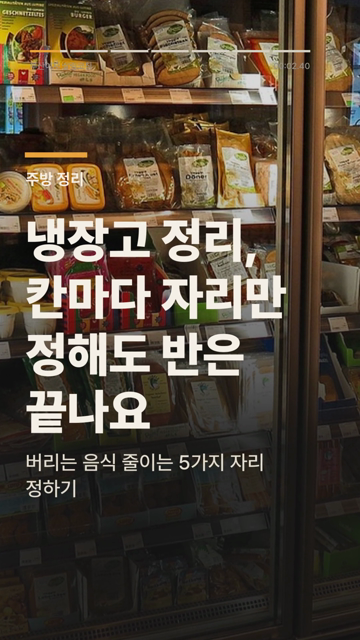
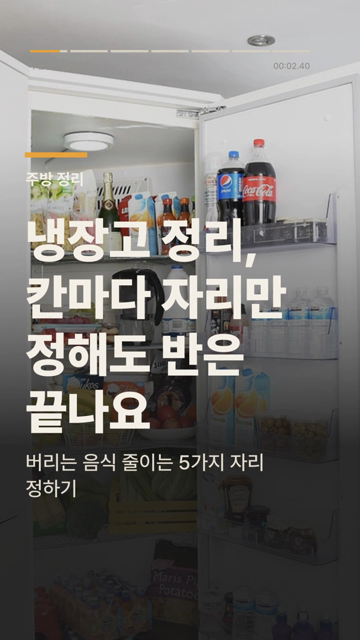
릴스 사진 고르기 방식 변경: 장면별 후보 8장 확인표 → 클로드가 보고 고른 사진으로 영상 (002 후보표 요청)
Claude-Session: https://claude.ai/code/session_01Ej6uK3p4TB7f1c2qyCj6cE

diff --git a/scripts/publish_reel.py b/scripts/publish_reel.py
@@ -95,7 +95,11 @@ def render(stem: str, preview: bool = False) -> Path:
     import reel
     post = json.loads((ROOT / "content" / f"{stem}.json").read_text(encoding="utf-8"))
     n = len(post["slides"]) + 1
-    pics = media.photos(post, stem, n)
+    picks = os.environ.get("REEL_PICKS", "").strip()
+    if picks:
+        pics = media.photos_by_pick(stem, parse_picks(stem, picks, n))
+    else:
+        pics = media.photos(post, stem, n)
     d = load()
     track = media.pick_track(d["music"].get("last"))
     want = os.environ.get("REEL_TRACK", "").strip()  # 미리보기에서 곡 번호를 고를 때
@@ -114,6 +118,59 @@ def render(stem: str, preview: bool = False) -> Path:
         d["approved"].pop(stem, None)  # 다시 만들었으면 다시 승인 받아야 함
         save(d)
     print(f"영상 완성: {out} / 사진 {len(pics)}장 / 음악 {info['music']}")
+    return out
+
+
+def parse_picks(stem: str, text: str, n: int) -> list:
+    """'0=3,1=0,2=-' (장면=확인표 후보 번호, - 는 사진 없이) → 장면별 픽사베이 사진 번호"""
+    cands = json.loads((ROOT / "review" / f"{stem}_cands.json").read_text(encoding="utf-8"))
+    picks = [None] * n
+    for part in text.replace(" ", "").split(","):
+        if "=" not in part:
+            continue
+        sc, k = part.split("=")
+        sc = int(sc)
+        if k not in ("-", "") and sc < n:
+            picks[sc] = cands[sc][int(k)]["id"]
+    return picks
+
+
+def candidates(stem: str) -> Path:
+    """장면마다 후보 사진 8장을 모은 확인표 (클로드가 보고 글에 맞는 사진 번호를 고른다)"""
+    import reel
+    from PIL import Image, ImageDraw
+    post = json.loads((ROOT / "content" / f"{stem}.json").read_text(encoding="utf-8"))
+    queries = post.get("photos") or []
+    labels = ["[훅] " + post["title"]] + [f"[{k + 1}] {sl['head']} — {sl['body']}" for k, sl in enumerate(post["slides"])]
+    n = len(labels)
+    tw, th, lw = 230, 230, 340
+    canvas = Image.new("RGB", (lw + 8 * tw, n * (th + 10)), "white")
+    d = ImageDraw.Draw(canvas)
+    f = reel.card_font("Medium", 19)
+    fn = reel.card_font("Black", 34)
+    allc = []
+    for i in range(n):
+        q = queries[i] if i < len(queries) else ""
+        y = i * (th + 10)
+        for j, ln in enumerate(reel.wrap(d, f"{labels[i]}  (검색: {q or '없음'})", f, lw - 16)[:9]):
+            d.text((8, y + 6 + j * 25), ln, font=f, fill=(20, 20, 20))
+        cs = media.pixabay_candidates(q, 8, hook=(i == 0)) if q else []
+        allc.append([{"id": c["id"], "tags": c["tags"]} for c in cs])
+        for k, c in enumerate(cs):
+            try:
+                im = Image.open(__import__("io").BytesIO(requests.get(c["thumb"], timeout=60).content)).convert("RGB")
+                im = reel.cover(im, tw - 6, th - 6)
+                x = lw + k * tw
+                canvas.paste(im, (x + 3, y + 3))
+                d.rectangle((x + 3, y + 3, x + 50, y + 48), fill=(232, 163, 61))
+                d.text((x + 14, y + 3), str(k), font=fn, fill=(20, 20, 20))
+            except Exception as e:
+                print("후보 받기 실패:", type(e).__name__)
+    (ROOT / "review").mkdir(exist_ok=True)
+    (ROOT / "review" / f"{stem}_cands.json").write_text(json.dumps(allc, ensure_ascii=False, indent=1), encoding="utf-8")
+    out = ROOT / "review" / f"{stem}_cands.jpg"
+    canvas.save(out, quality=85)
+    print(out)
     return out
 
 
@@ -271,6 +328,7 @@ if __name__ == "__main__":
     ap.add_argument("--render", help="미리보기 영상 만들기 (--preview 와 함께)")
     ap.add_argument("--preview", action="store_true")
     ap.add_argument("--sheet", help="확인용 장면 모음 그림 만들기")
+    ap.add_argument("--candidates", help="장면별 후보 사진 확인표 만들기 (review/)")
     ap.add_argument("--approve", nargs=2, metavar=("원고", "메모"))
     ap.add_argument("--publish")
     a = ap.parse_args()
@@ -286,6 +344,8 @@ if __name__ == "__main__":
         render(a.render, preview=a.preview)
     elif a.sheet:
         sheet(a.sheet)
+    elif a.candidates:
+        candidates(a.candidates)
     elif a.approve:
         approve(*a.approve)
     elif a.publish:

diff --git a/scripts/media.py b/scripts/media.py
@@ -74,6 +74,65 @@ def _pixabay(query: str, n: int, key: str, orientation: str = "vertical") -> lis
     return [u for _, _, u in scored[:n]]  # (사진 번호, 주소) — 픽사베이 주소는 요청마다 바뀌어서 번호로 겹침을 막는다
 
 
+def pixabay_candidates(query: str, n: int = 8, hook: bool = False) -> list[dict]:
+    """확인표용 후보: 태그가 검색어와 하나라도 겹치는 사진을 많이 겹치는 순서로 n장 (클로드가 눈으로 고른다)"""
+    key = os.environ["PIXABAY_KEY"].strip()
+    words = [_norm(w) for w in query.replace(",", " ").split() if w.lower() not in STOP]
+    seen, out = set(), []
+    for ori in (["vertical", "all"] if hook else ["horizontal", "all"]):
+        r = requests.get("https://pixabay.com/api/", headers=UA, timeout=30,
+                         params={"key": key, "q": query, "image_type": "photo", "orientation": ori,
+                                 "safesearch": "true", "per_page": 100, "order": "popular"})
+        r.raise_for_status()
+        for i, h in enumerate(r.json().get("hits", [])):
+            raw = (h.get("tags") or "").lower()
+            if h["id"] in seen or any(w.strip() in (" " + raw.replace(",", " ") + " ") for w in PEOPLE):
+                continue
+            tags = {_norm(x) for part in raw.split(",") for x in part.split()}
+            hit = sum(1 for w in words if w in tags)
+            if hit:
+                seen.add(h["id"])
+                out.append({"score": hit, "order": i, "id": h["id"], "thumb": h.get("webformatURL"), "tags": raw})
+        if len(out) >= n:
+            break
+    out.sort(key=lambda x: (-x["score"], x["order"]))
+    return out[:n]
+
+
+def pixabay_by_id(pid) -> str:
+    """사진 번호로 큰 사진 주소 받기 (픽사베이 주소는 시간이 지나면 바뀌어서 번호로 다시 묻는다)"""
+    r = requests.get("https://pixabay.com/api/", headers=UA, timeout=30,
+                     params={"key": os.environ["PIXABAY_KEY"].strip(), "id": pid})
+    r.raise_for_status()
+    hits = r.json().get("hits", [])
+    return (hits[0].get("largeImageURL") or hits[0]["webformatURL"]) if hits else ""
+
+
+def photos_by_pick(stem: str, picks: list) -> list:
+    """클로드가 확인표에서 고른 사진 번호대로 받기. None 인 장면은 사진 없이"""
+    folder = ROOT / "out" / stem / "photos"
+    if folder.exists():
+        for f in folder.glob("*"):
+            f.unlink()
+    folder.mkdir(parents=True, exist_ok=True)
+    out = []
+    for i, pid in enumerate(picks):
+        if not pid:
+            out.append(None)
+            continue
+        u = pixabay_by_id(pid)
+        if not u:
+            print(f"[장면 {i}] 사진 {pid} 를 못 받아서 이 장면은 사진 없이")
+            out.append(None)
+            continue
+        b = requests.get(u, headers=UA, timeout=60)
+        b.raise_for_status()
+        f = folder / f"{i:02d}.jpg"
+        f.write_bytes(b.content)
+        out.append(f)
+    return out
+
+
 def _openverse(query: str, n: int) -> list[str]:
     r = requests.get("https://api.openverse.org/v1/images/", headers=UA, timeout=30,
                      params={"q": query, "license": "cc0,pdm", "aspect_ratio": "tall", "page_size": 40,

diff --git a/CLAUDE.md b/CLAUDE.md
@@ -41,11 +41,15 @@
 ## 릴스 (월·수·금·일 저녁) — 고정 규칙
 - **영상의 사진은 그 장의 글 내용과 맞아야 한다.** 원고의 `"photos"` = 장면별 영어 검색어 [훅, 1장, 2장, …] (도장과 무관). 새 원고를 쓸 때 장마다 글에 딱 맞는 구체적인 검색어를 함께 넣는다
 - **음악은 music/tracks.json 의 use=true 곡(1번 Happy Ukulele · 2번 Children Ukulele Pop Rock)을 번갈아** 쓴다. 저작권 없는 무료 음원만
-- 흐름: ① 발행 전날 밤(일·화·목·토) 클로드가 `python scripts/publish_reel.py --pick` 으로 원고를 골라 `reel_prepare.txt` 에 적어 올림
-  → 깃허브가 픽사베이 사진·음악을 넣어 `docs/reels/<원고>.mp4` 생성 (커밋 "릴스 영상 준비: …")
-  ② 클로드가 받아서 `python scripts/publish_reel.py --sheet <원고>` → `out/<원고>/reel_sheet.jpg` 를 **열어 보고** 장면마다 사진과 글이 맞는지 확인
-  ③ 맞으면 `python scripts/publish_reel.py --approve <원고> "확인 메모"` → reels.json 커밋·푸시. 안 맞으면 그 장의 `photos` 검색어를 고치고 ①부터 다시 (최대 2번, 그래도 안 맞으면 승인하지 않음)
-  ④ 저녁 예약(20:07~22:07)이 **승인된 영상만** 인스타 릴스·스레드에 올림 (영상 지문 sha 와 묶여 있어 다시 만들면 다시 승인 필요). 승인된 게 없으면 실패 메일
+- 흐름 (발행 전날 밤, 일·화·목·토):
+  ① `python scripts/publish_reel.py --pick` 으로 원고를 골라 `reel_prepare.txt` 첫 줄에 원고 이름만 적어 올림
+     → 깃허브가 장면마다 후보 사진 8장을 모은 확인표 `review/<원고>_cands.jpg` 를 만듦 (커밋 "릴스 후보 사진: …")
+  ② 클로드가 확인표를 **열어 보고** 장면마다 글에 맞는 후보 번호를 고름. 맞는 게 없으면 `-` (그 장면은 사진 없이).
+     상표·로고가 크게 보이는 사진, 사람 얼굴이 보이는 사진은 고르지 않는다
+     → `reel_prepare.txt` 둘째 줄에 `pick=0=3,1=0,2=-,3=5,…` (장면=후보 번호) 를 적어 올림 → 깃허브가 그 사진으로 `docs/reels/<원고>.mp4` 생성 (커밋 "릴스 영상 준비: …")
+  ③ `python scripts/publish_reel.py --sheet <원고>` → `out/<원고>/reel_sheet.jpg` 를 **열어 보고** 장면마다 사진과 글이 맞는지 다시 확인
+  ④ 맞으면 `python scripts/publish_reel.py --approve <원고> "확인 메모"` → reels.json 커밋·푸시. 안 맞으면 ②부터 다시 (최대 2번, 그래도 안 맞으면 승인하지 않음)
+  ⑤ 저녁 예약(20:07~22:07)이 **승인된 영상만** 인스타 릴스·스레드에 올림 (영상 지문 sha 와 묶여 있어 다시 만들면 다시 승인 필요). 승인된 게 없으면 실패 메일
 - `scripts/reel.py` 영상 만들기 (1080x1920 60fps, 첫 1초 훅, 쿠팡 링크 글은 처음 3.6초 '유료 광고 포함'), `.github/workflows/reels.yml`, 비밀 보관함 `PIXABAY_KEY`
 - 미리보기만: `reel_preview.txt` 에 원고 이름(+ `track=2` 처럼 곡 번호)을 적어 올리면 `docs/preview/` 에 영상만 만든다
 
